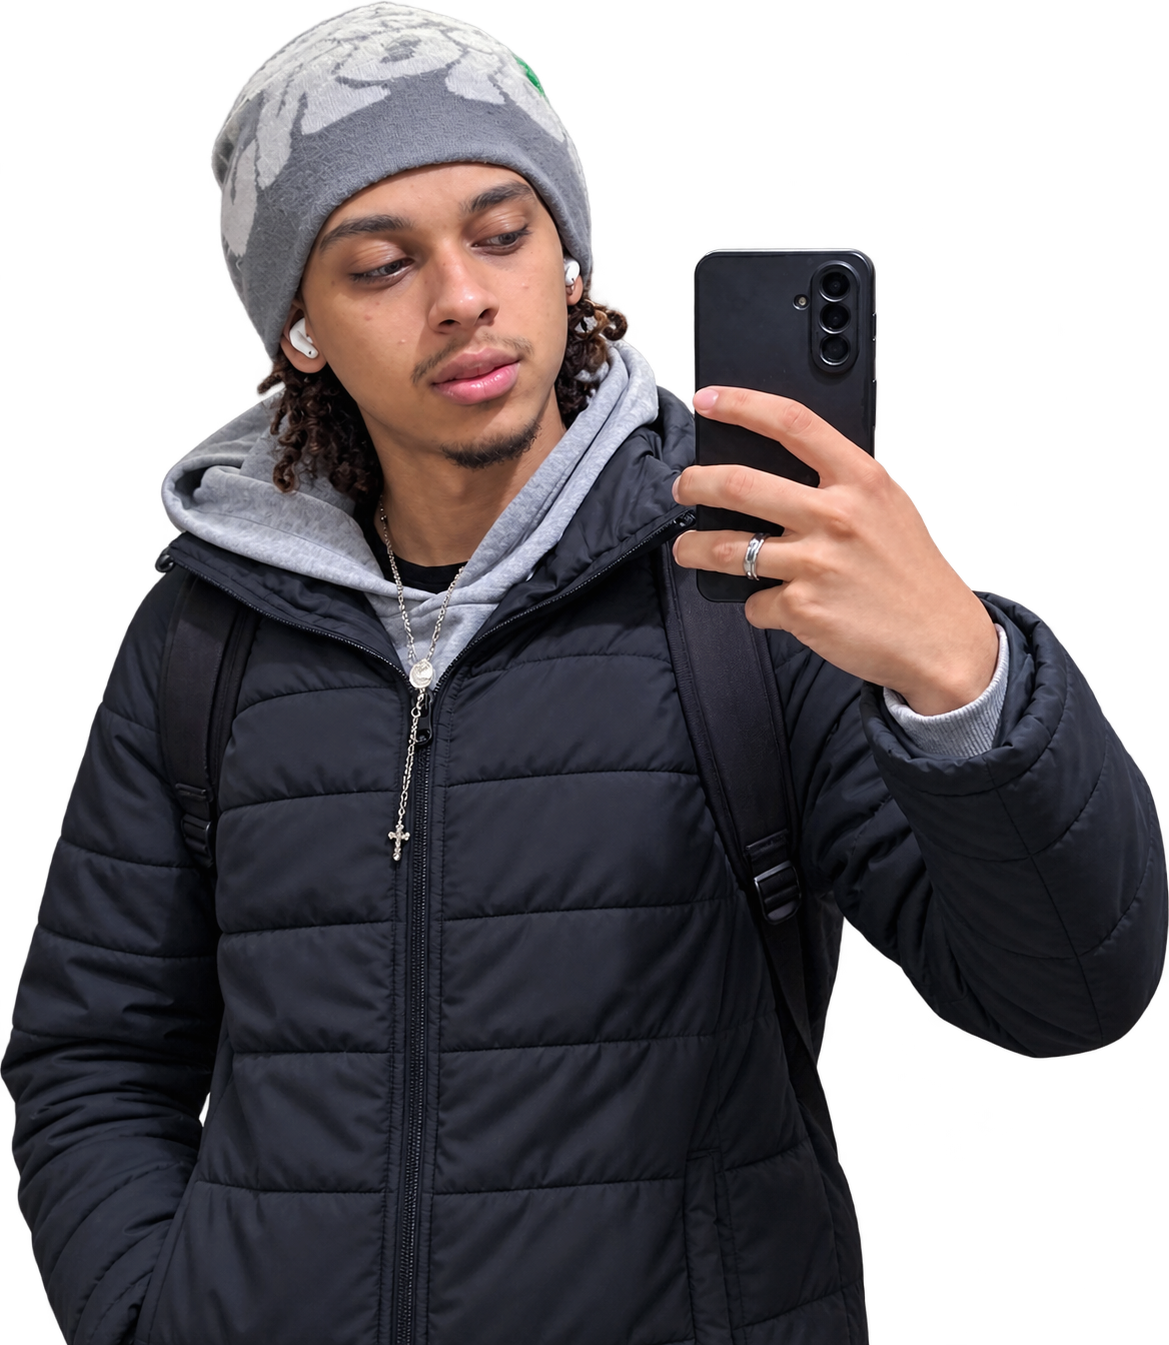
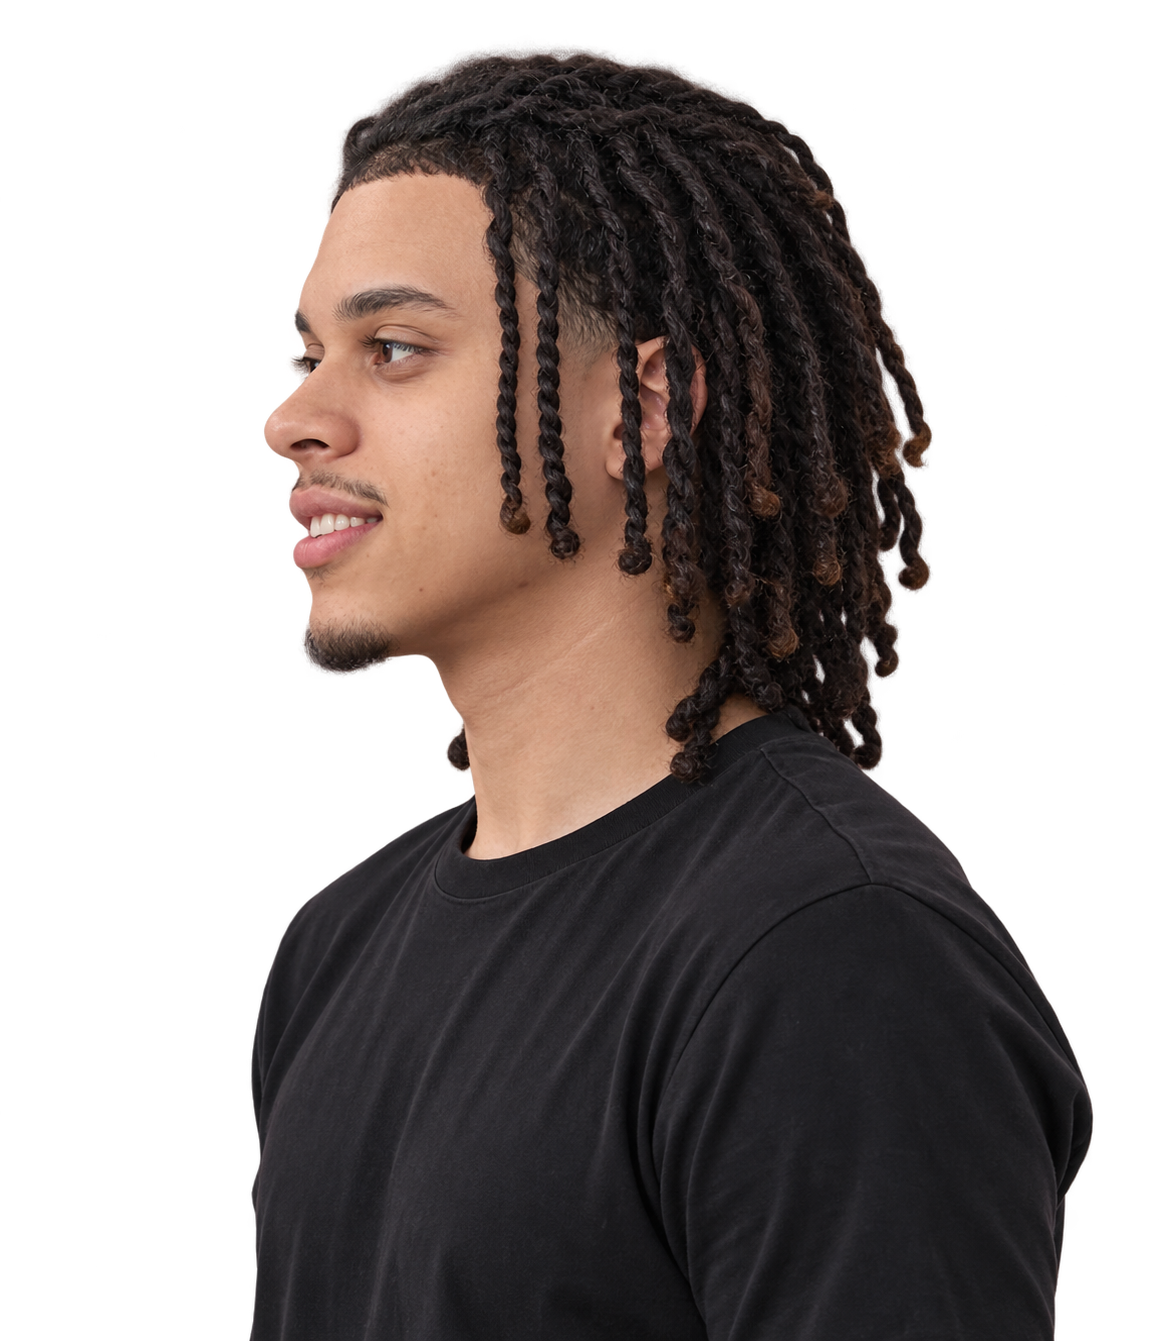
mudando layout do site

diff --git a/style.css b/style.css
@@ -113,7 +113,7 @@ header > .interface {
 
 
 /* =========================
-   SEÇÃO PRINCIPAL
+   SEÇÃO INICIAL
 ========================= */
 
 .topo {
@@ -122,12 +122,15 @@ header > .interface {
 
     position: relative;
 
-    background-image: url("fundo.jpg");
-    background-size: cover;
-    background-position: center;
-
     display: flex;
     align-items: center;
+    justify-content: center;
+
+    /* IMAGEM DE FUNDO */
+    background-image: url("");
+    background-size: 50%;
+    background-position: center;
+    background-repeat: no-repeat;
 
     overflow: hidden;
 }
@@ -150,17 +153,15 @@ header > .interface {
 
 .topo-conteudo {
     position: relative;
-
     z-index: 2;
 
     width: 100%;
 
-    display: grid;
-    grid-template-columns: 1fr 1fr;
-
+    display: flex;
     align-items: center;
+    justify-content: center;
 
-    gap: 80px;
+    text-align: center;
 }
 
 
@@ -169,119 +170,51 @@ header > .interface {
 ========================= */
 
 .texto-inicio {
-    text-align: left;
+    display: flex;
+    flex-direction: column;
+    align-items: center;
+
+    text-align: center;
+
+    max-width: 750px;
 }
 
 .texto-inicio .apresentacao {
-    font-size: 16px;
+    font-size: 17px;
     font-weight: 400;
 
     color: #008cff;
 
-    margin-bottom: 8px;
+    margin-bottom: 10px;
 }
 
 .texto-inicio h1 {
-    font-size: 52px;
+    font-size: 58px;
     font-weight: 700;
 
     color: #fff;
 
     line-height: 1.1;
 
-    margin-bottom: 8px;
+    margin-bottom: 10px;
 }
 
 .texto-inicio h2 {
-    font-size: 25px;
+    font-size: 28px;
     font-weight: 500;
 
     color: #008cff;
 
-    margin-bottom: 20px;
+    margin-bottom: 25px;
 }
 
 .descricao-inicio {
-    max-width: 500px;
+    max-width: 620px;
 
-    font-size: 15px;
-    line-height: 1.7;
+    font-size: 16px;
+    line-height: 1.8;
 
-    color: #ccc;
-}
-
-
-/* =========================
-   FOTO
-========================= */
-
-.foto-inicio {
-    display: flex;
-    justify-content: center;
-    align-items: center;
-}
-
-
-/* FORMA GEOMÉTRICA */
-
-.forma-foto {
-    width: 240px;
-    height: 300px;
-
-    position: relative;
-
-    display: flex;
-    justify-content: center;
-    align-items: flex-end;
-
-    background: linear-gradient(145deg, #1597ff, #0077ff);
-
-    clip-path: polygon(
-        50% 0%,
-        100% 25%,
-        100% 75%,
-        50% 100%,
-        0% 75%,
-        0% 25%
-    );
-
-    overflow: hidden;
-
-    filter:
-        drop-shadow(0 0 10px rgba(0, 140, 255, 0.6))
-        drop-shadow(0 0 25px rgba(0, 140, 255, 0.25));
-}
-
-
-/* FOTO */
-
-.forma-foto img {
-    width: 90%;
-    height: auto;
-
-    object-fit: contain;
-
-    position: relative;
-
-    bottom: -8px;
-
-    transform: translateX(4%);
-}
-
-/* CAMADA ESCURA SOBRE A IMAGEM */
-
-.overlay {
-    position: absolute;
-
-    top: 0;
-    left: 0;
-
-    width: 100%;
-    height: 100%;
-
-    background: rgba(0, 0, 0, 0.65);
-
-    z-index: 1;
+    color: #ddd;
 }
 
 

diff --git a/index.html b/index.html
@@ -80,22 +80,6 @@
 
         </div>
 
-
-        <!-- FOTO À DIREITA -->
-
-        <div class="foto-inicio">
-
-            <div class="forma-foto">
-
-                <img src="Imagens/minhafoto.png"
-                     alt="Foto de Luís Felipe">
-
-            </div>
-
-        </div>
-
-    </div>
-
 </section>
     
 
@@ -158,7 +142,7 @@
                 <div class="contato-item">
 
                     <strong>Email:</strong>
-                    <span>seuemail@email.com</span>
+                    <span>luisfsoliva@gmail.com</span>
 
                 </div>
 
@@ -180,7 +164,7 @@
 
                     <strong>LinkedIn:</strong>
 
-                    <a href="#"
+                    <a href="https://www.linkedin.com/in/lu%C3%ADs-felipe-769075352/"
                        target="_blank"
                        rel="noopener noreferrer">
 
